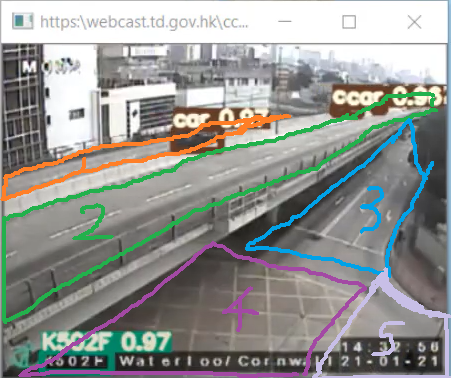
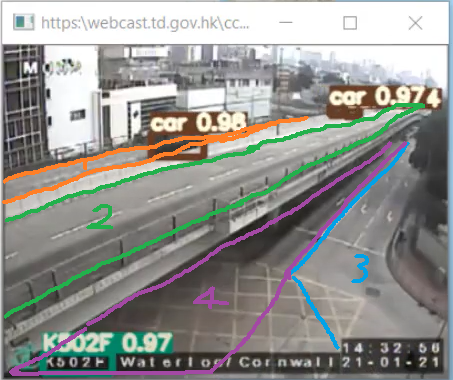
Draft

diff --git a/traffic/README.md b/traffic/README.md
@@ -34,8 +34,9 @@ For the detection to be useful, some work needs to be done beforehand. First, ru
 | K409F | 2 | Argyle Street Flyover near Princess Margaret Road (eastwards) |
 | K409F | 3 | Argyle Street Flyover near Princess Margaret Road (westwards) |
 | K502F | 1 | Waterloo Road Flyover (southwards) |
-| K502F | 2 | Waterloo Road Flyover (northwards) |
+| K502F | 2 | Waterloo Road Flyover towards Lion Rock Tunnel (northwards) |
 | K502F | 3 | Waterloo Road towards Cornwall Street (northwards) |
+| K502F | 4 | Waterloo Road (northwards) |
 | K614F | 1 | Clear Water Bay Road (eastwards) |
 | K614F | 2 | Clear Water Bay Road towards Lung Cheung Road (westwards) |
 
@@ -52,7 +53,7 @@ lat	lng	TW102F Kwai Chung Road near Container Terminal
 lat	lng	TW117F Castle Peak Road near Texaco Road North
 lat	lng	TW120F Tsuen Wan Road near Tai Chung Road -->
 
-**The polygon masks have been pickled to a single file.** For each recognition, the Python tool tests whether the centres of the bounding box is inside each polygon, and updates the Feature Layer according to the camera code detected and vehicle position (traffic lane).
+**The polygon masks (2D NumPy array of True/False) have been pickled to a single file.** For each recognition, the Python tool tests whether the centres of the bounding box is inside each polygon, and updates the Feature Layer according to the camera code detected and vehicle position (traffic lane).
 
 ### Future enhancements
 
